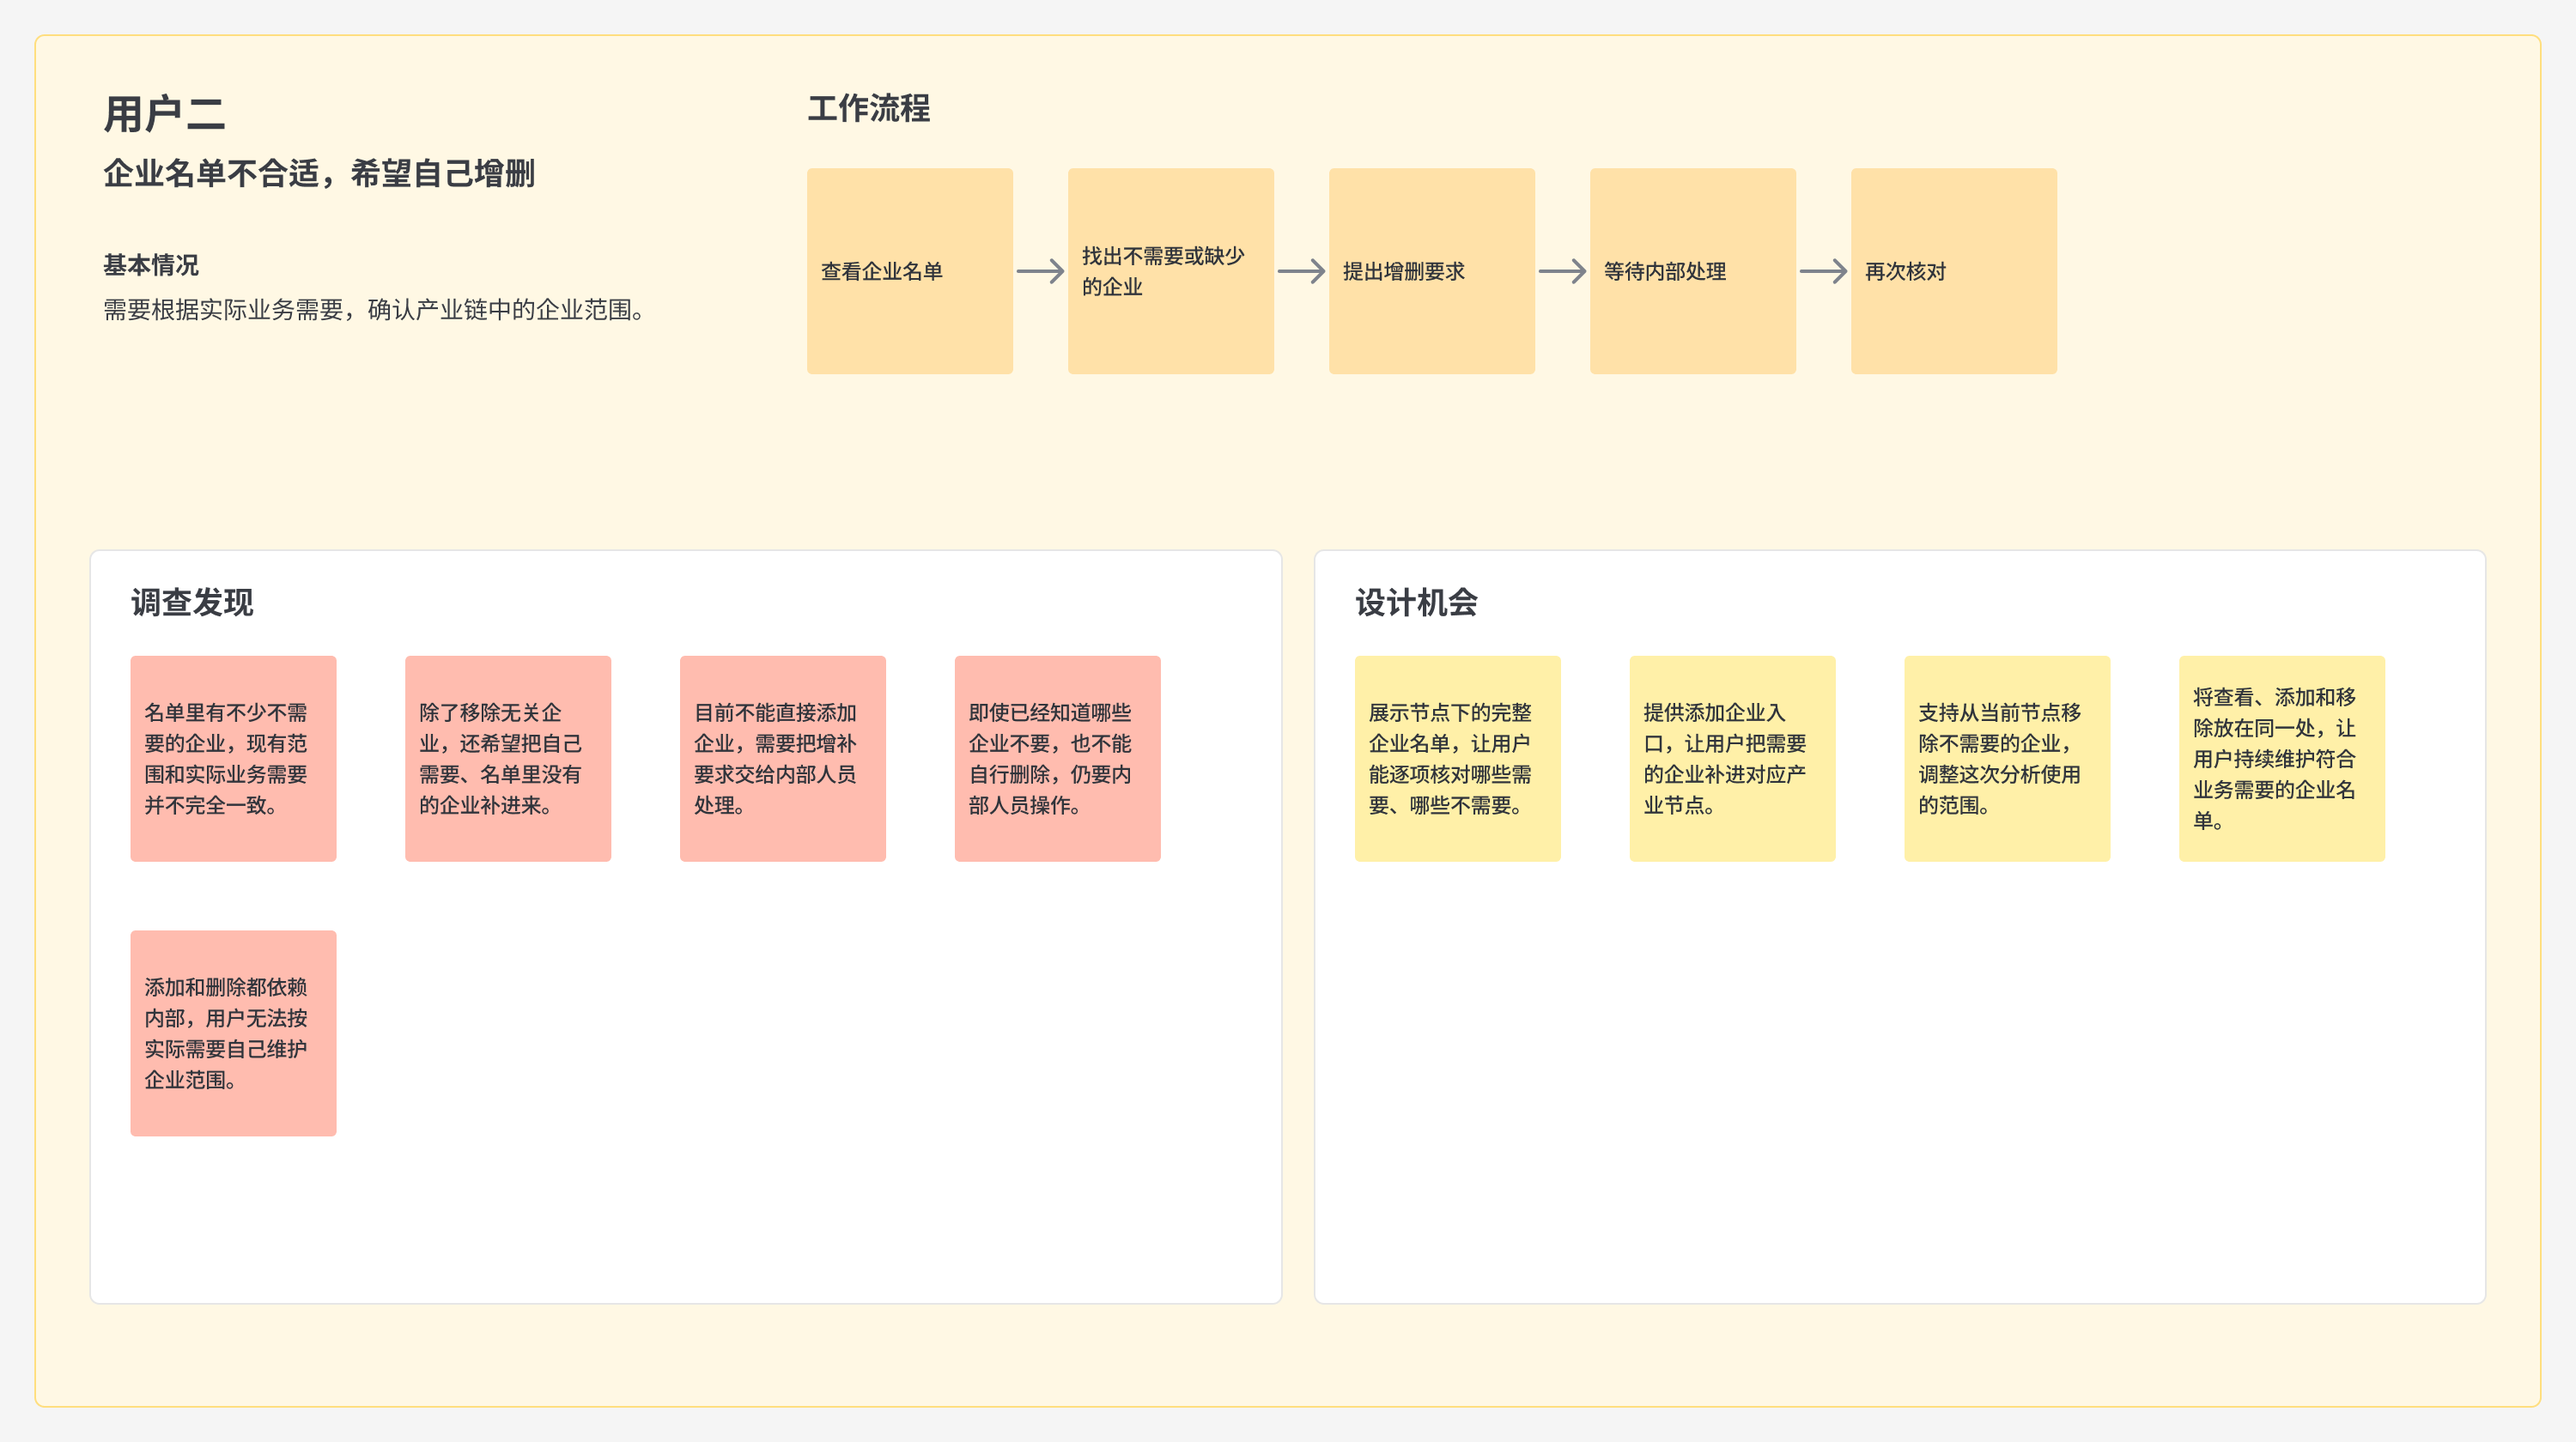
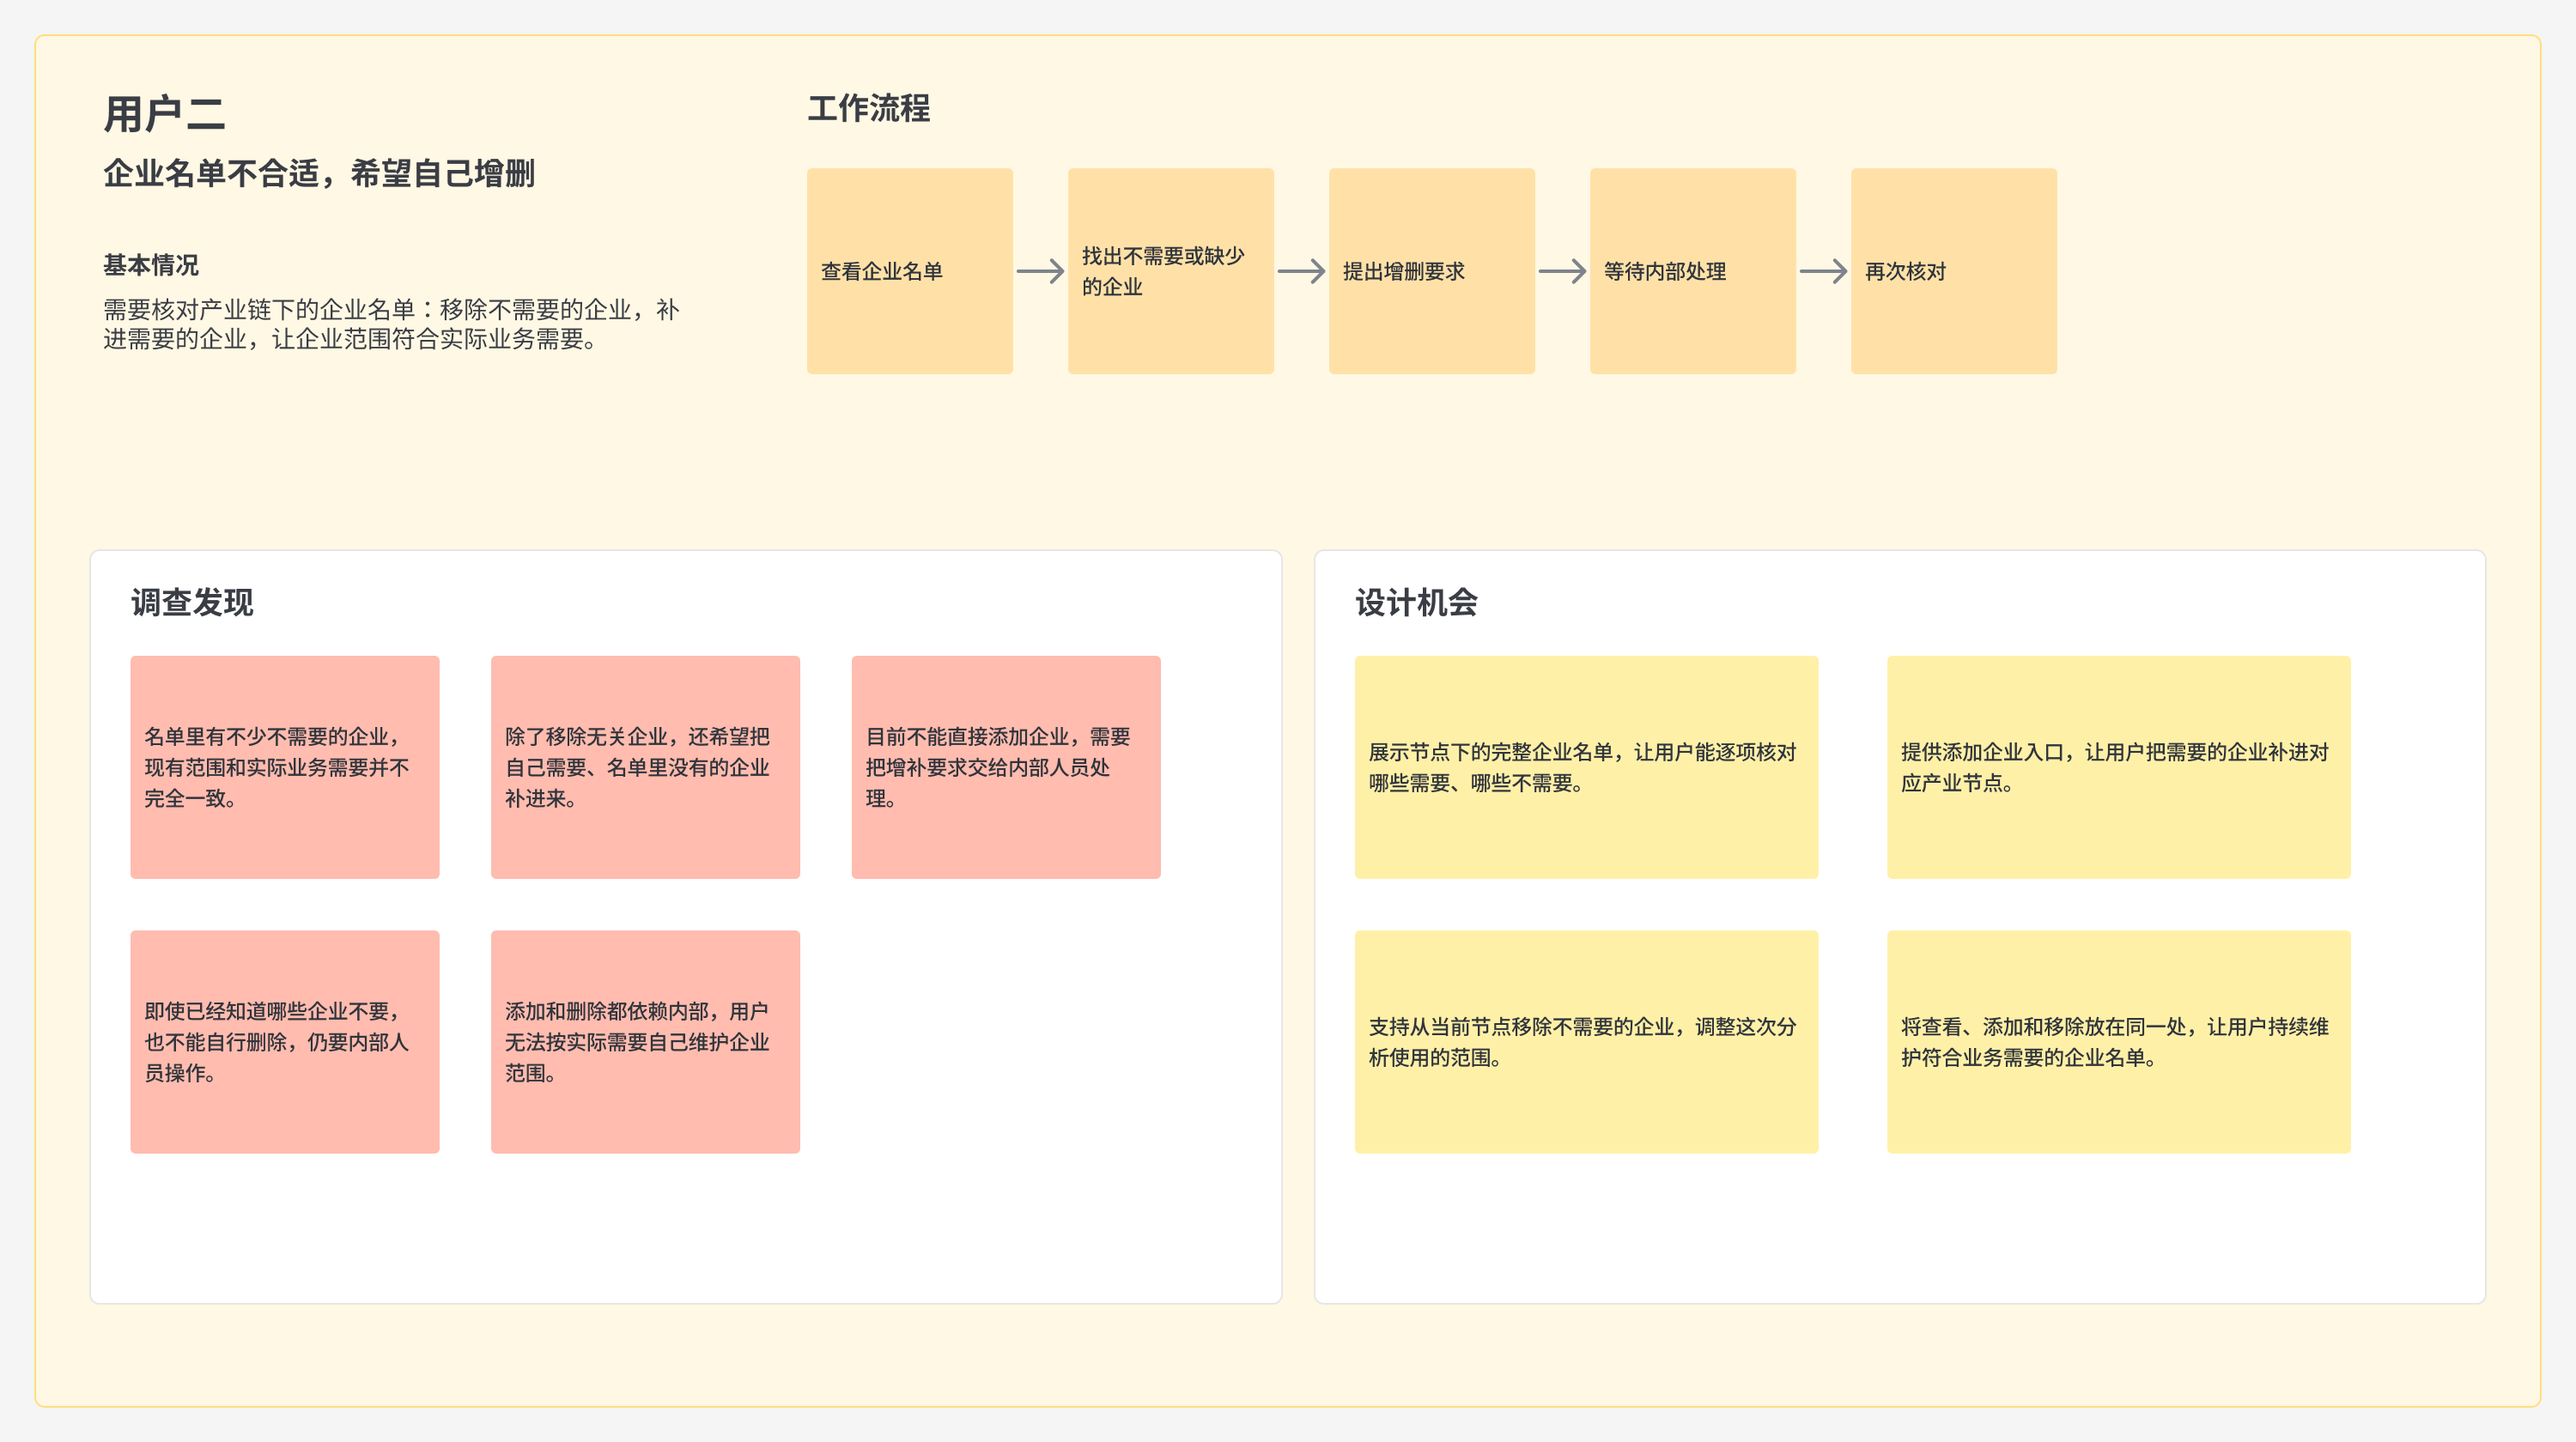
启信：用户沟通改用要点并补充设计机会，调整用户二卡片

Changed region(s): [[0.527, 0.4333, 0.93, 0.8048], [0.031, 0.4333, 0.465, 0.8048], [0.031, 0.1857, 0.248, 0.2476]]

diff --git a/src/app/cases/components/ChainUserResearch.tsx b/src/app/cases/components/ChainUserResearch.tsx
@@ -1,6 +1,14 @@
 export function ChainUserResearch() {
   return <div className="chain-user-research">
+    <ul className="chain-research-points">
+      <li>交付结果还有细节需要调整，但用户无法自己充分修改。</li>
+      <li>名单里有不需要的企业，也有希望补充的企业，增删仍依赖内部处理。</li>
+    </ul>
     <div className="chain-user-research-grid">{[1, 2].map(index => <figure key={index}><img src={`${import.meta.env.BASE_URL}images/qixin/user-research-${index}.png`} alt={`用户${index}的基本情况、工作流程、调查发现与设计机会`} loading="lazy" /><figcaption className="text-caption text-text-secondary">用户{index}调查整理</figcaption></figure>)}</div>
-    <p className="text-caption text-text-secondary">根据回忆整理，非逐字记录。</p>
+    <div className="chain-research-opportunities"><h4 className="text-body font-medium">设计机会</h4><ul className="chain-research-points">
+      <li>让用户直接调整产业环节和上下游，继续修改交付后的细节。</li>
+      <li>在节点下查看企业名单，自行添加需要的企业、移除不需要的企业。</li>
+      <li>让用户持续维护产业链，减少小改动对内部配置的依赖。</li>
+    </ul></div>
   </div>;
 }

diff --git a/src/app/cases/qixin.css b/src/app/cases/qixin.css
@@ -45,3 +45,7 @@
 .chain-user-research-dialog::backdrop { background: var(--color-text-secondary); }
 .chain-user-research-close { display: block; margin-left: auto; min-height: var(--touch-target); padding-inline: var(--space-4); border: 0; background: var(--color-accent-soft); color: var(--color-accent-text); font: inherit; cursor: pointer; }
 @media (max-width: 767px) { .chain-user-research-grid { grid-template-columns: minmax(0, 1fr); } }
+
+.chain-research-points { margin: 0; padding-left: var(--space-5); display: grid; gap: var(--rhythm-2); font-size: var(--text-body); line-height: var(--text-body--line-height); color: var(--color-text-body); list-style: disc; }
+.chain-research-opportunities { display: grid; gap: var(--rhythm-3); margin-top: var(--rhythm-3); }
+.chain-research-opportunities h4 { margin: 0; }

diff --git a/src/app/cases/content/qixin.ts b/src/app/cases/content/qixin.ts
@@ -168,19 +168,6 @@ export const qixin: CaseContent = {
               "text": "我们和两位用户了解了产业链配置与企业名单维护中的困难。"
             },
             {
-              "kind": "columns",
-              "items": [
-                {
-                  "label": "交付后难微调",
-                  "text": "交付结果还有细节需要调整，但用户无法自己充分修改。"
-                },
-                {
-                  "label": "企业增删依赖内部",
-                  "text": "名单里有不需要的企业，也有希望补充的企业，增删仍需要内部处理。"
-                }
-              ]
-            },
-            {
               "kind": "chain-user-research"
             }
           ]
